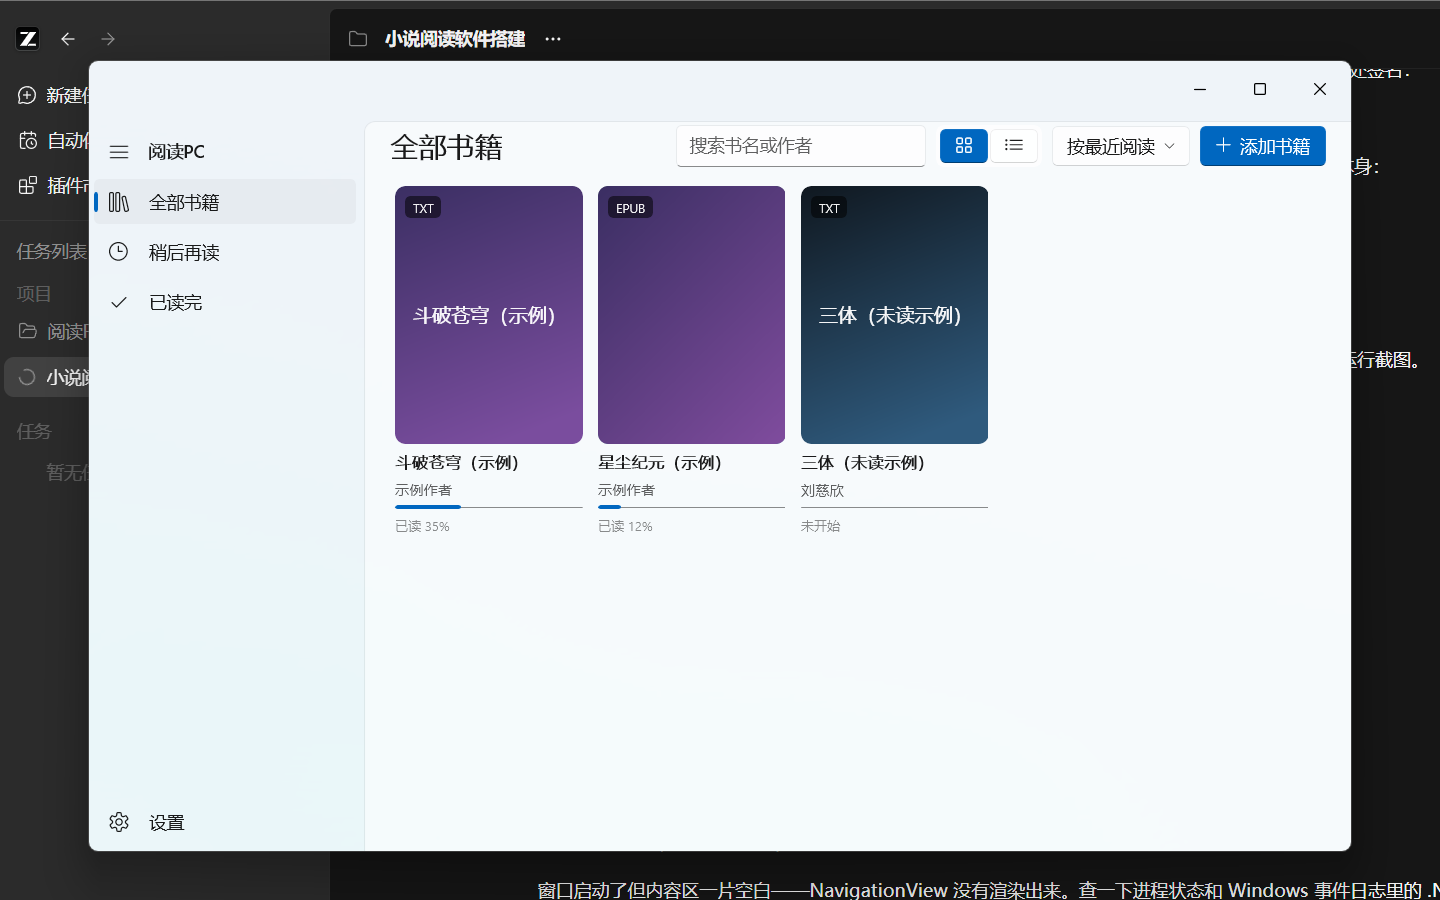
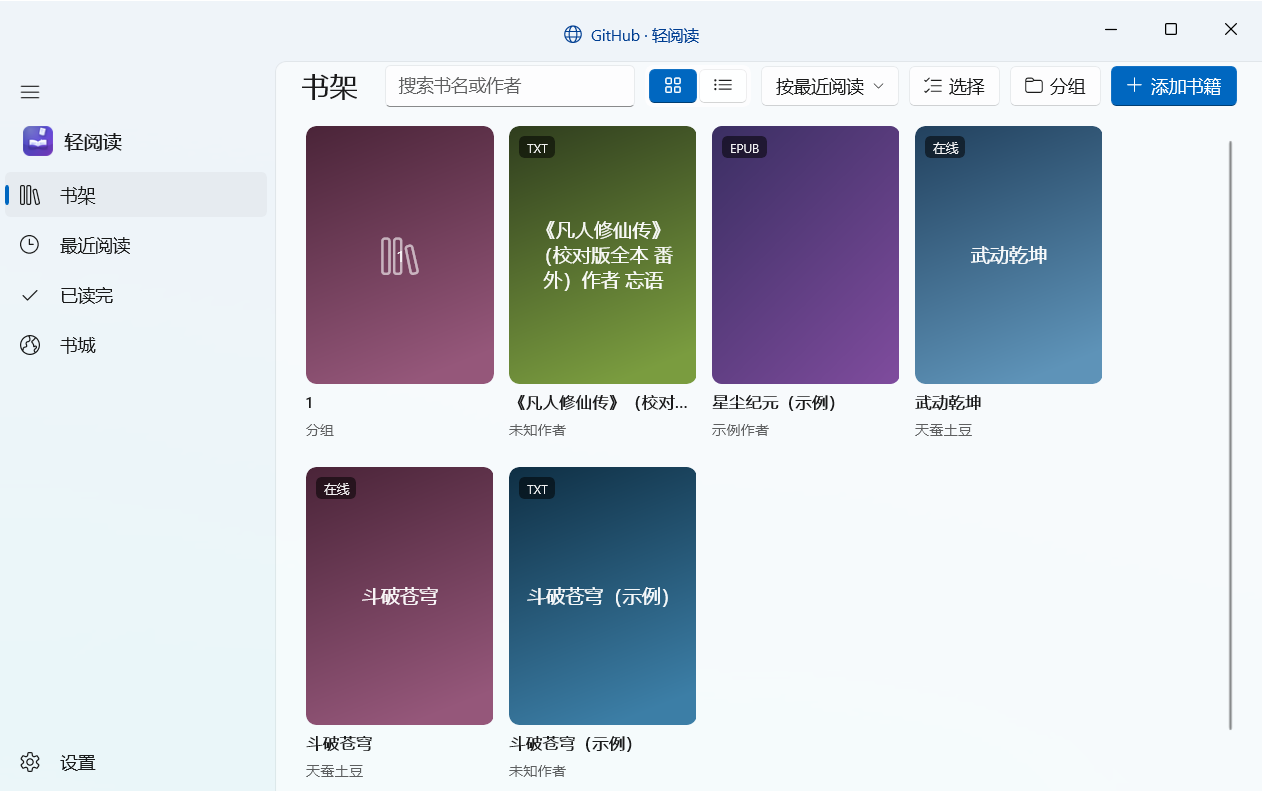
docs: 更新文档与截图（不含源码）
- README 重写：功能特性、路线图、截图更新
- docs 截图：书架/阅读器/排版/搜索/目录/TTS/书城/书源管理/设置
- docs 新增 logo

diff --git a/README.md b/README.md
@@ -1,16 +1,18 @@
 <div align="center">
 
-<img src="src/YueduPC/Assets/logo512.png" width="128" alt="轻阅读"/>
+<img src="docs/logo.png" width="128" alt="轻阅读"/>
 
 # 轻阅读 QingYueDu
 
 **基于 WinUI 3 的现代化 Windows 桌面小说阅读器**
 
-支持 TXT / EPUB · 上下滚动 / 双栏 / 仿真 / 覆盖四种翻页方式 · 划词批注 · 自动翻页 · 本地优先
+支持 TXT / EPUB · 上下滚动 / 双栏 / 仿真 / 覆盖四种翻页方式 · 划词批注 · 自动翻页 · TTS 听书 · 全文搜索 · Legado 书源 · 本地优先
 
 [![License: MIT](https://img.shields.io/badge/License-MIT-blue.svg)](LICENSE)
 [![Platform](https://img.shields.io/badge/platform-Windows%2010%20%2F%2011-lightgrey)]()
 [![.NET](https://img.shields.io/badge/.NET-8.0-blueviolet)]()
+
+**[🐙 GitHub](https://github.com/ligit520/QingYueDu)**
 
 </div>
 
@@ -41,23 +43,41 @@
 - 书籍详情页：元数据、完整目录跳转、继续阅读
 - 进度实时持久化，重开自动定位
 
-### 🔊 更多
-- 自动翻页（可调速度浮层，滚动模式匀速滑读，分页模式定时翻页）
-- TTS 听书、Legado 书源等规划中（见 [路线图](#-路线图)）
+### 🔊 听书与搜索
+- **TTS 听书**：调用 Windows 系统语音，按句朗读，支持音色选择、朗读高亮、上一句 / 下一句跳转
+- **全文搜索**：跨全书章节搜索，关键词高亮定位，点击结果直达命中处
+
+### 🌐 在线书源（Legado 规则引擎）
+- **内置书源**：内置多条笔趣阁等常用书源，开箱即用
+- **书源管理**：URL / 文件 / 剪贴板三种导入方式，列表化管理，一键启用 / 停用 / 删除，支持多选全开 / 全关
+- **可用性检测**：启动时自动检测已启用书源，导入后即时检测，也可在书源管理页手动检测，结果一目了然
+- **书城**：跨已启用书源搜索书籍，点击直接在线阅读
 
 ## 📸 截图
 
 | 书架 | 阅读器 |
 | --- | --- |
-| ![书架](docs/screenshots/bookshelf.png) | ![TXT 阅读器](docs/screenshots/txt-reader.png) |
+| ![书架](docs/screenshots/bookshelf.png) | ![阅读器](docs/screenshots/reader.png) |
 
-| EPUB | 排版自定义 |
+| 排版自定义 | 全文搜索 |
 | --- | --- |
-| ![EPUB 阅读器](docs/screenshots/epub-reader.png) | ![排版](docs/screenshots/typography.png) |
+| ![排版](docs/screenshots/typography.png) | ![搜索](docs/screenshots/search.png) |
+
+| 目录面板 | TTS 听书 |
+| --- | --- |
+| ![目录](docs/screenshots/toc.png) | ![TTS](docs/screenshots/tts.png) |
+
+| 书城 | 书源管理 |
+| --- | --- |
+| ![书城](docs/screenshots/bookstore.png) | ![书源管理](docs/screenshots/sources.png) |
+
+| 设置 |
+| --- |
+| ![设置](docs/screenshots/settings.png) |
 
 ## 📥 下载安装
 
-前往 [**Releases**](../../releases) 页面下载 `QingYueDu-vX.X.X-win-x64.zip`，解压后运行 `QingYueDu.exe` 即可。
+前往 [**Releases**](https://github.com/ligit520/QingYueDu/releases) 页面下载 `QingYueDu-vX.X.X-win-x64.zip`，解压后运行 `QingYueDu.exe` 即可。
 
 > 无需安装 .NET，压缩包已自包含全部运行时。
 > 系统要求：Windows 10 (17763+) 或 Windows 11 x64；EPUB 渲染依赖 WebView2（Win11 自带）。
@@ -71,14 +91,12 @@
 | TXT 解析 | Ude.NetStandard 编码探测 + 正则章节切分 |
 | EPUB 解析 | 自研 ZipArchive + OPF 解析器（零第三方依赖） |
 | 渲染 | WebView2 统一渲染管线（TXT / EPUB 共用） |
+| 书源引擎 | 自研 Legado 规则引擎（CSS 选择器 / XPath 子集） |
 | 数据 | 本地 JSON（书库 / 进度 / 书签 / 批注 / 设置），不上传任何服务器 |
 | 部署 | Unpackaged + 自包含运行时，解压即用 |
 
 ## 🗺 路线图
 
-- [ ] TTS 听书（Windows 系统语音）
-- [ ] 全文搜索
-- [ ] Legado 书源（网文在线阅读）
 - [ ] PDF 支持
 - [ ] AI 助手（OpenAI / Claude / Gemini）
 
